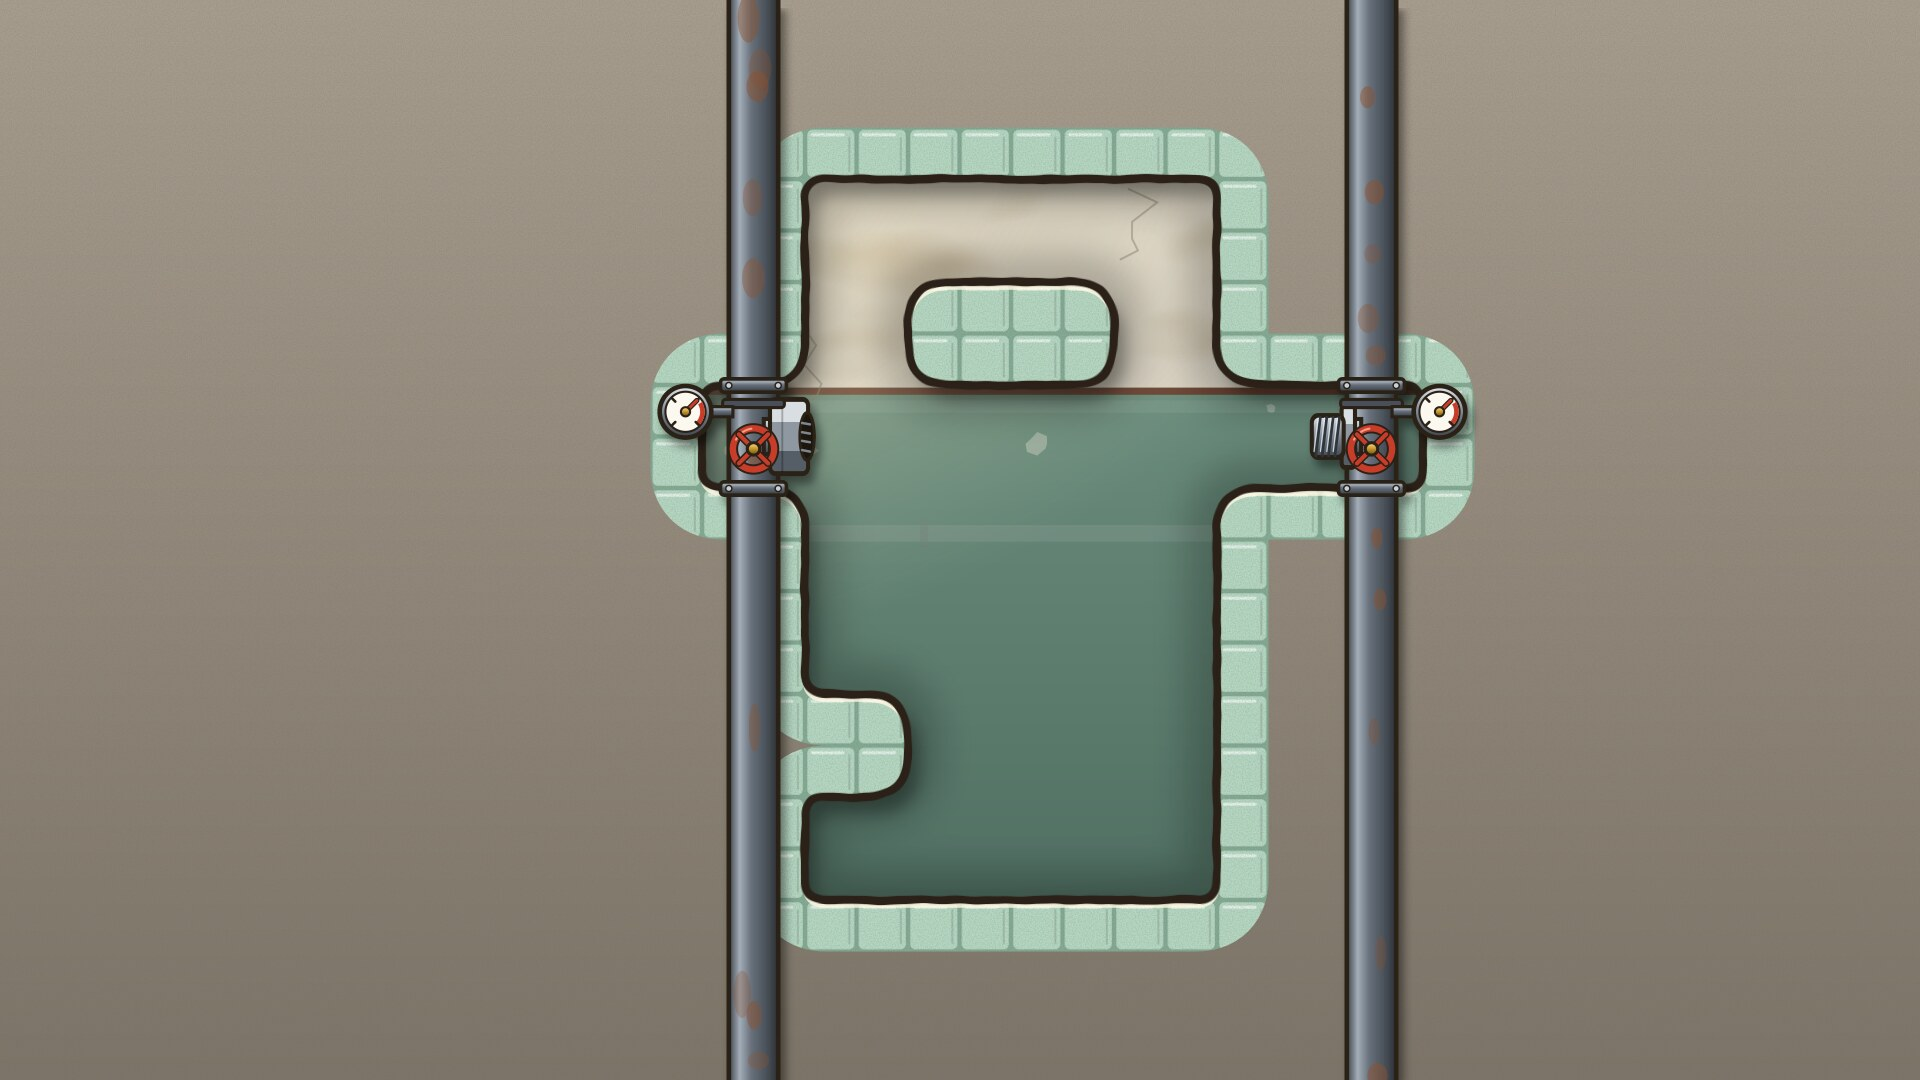
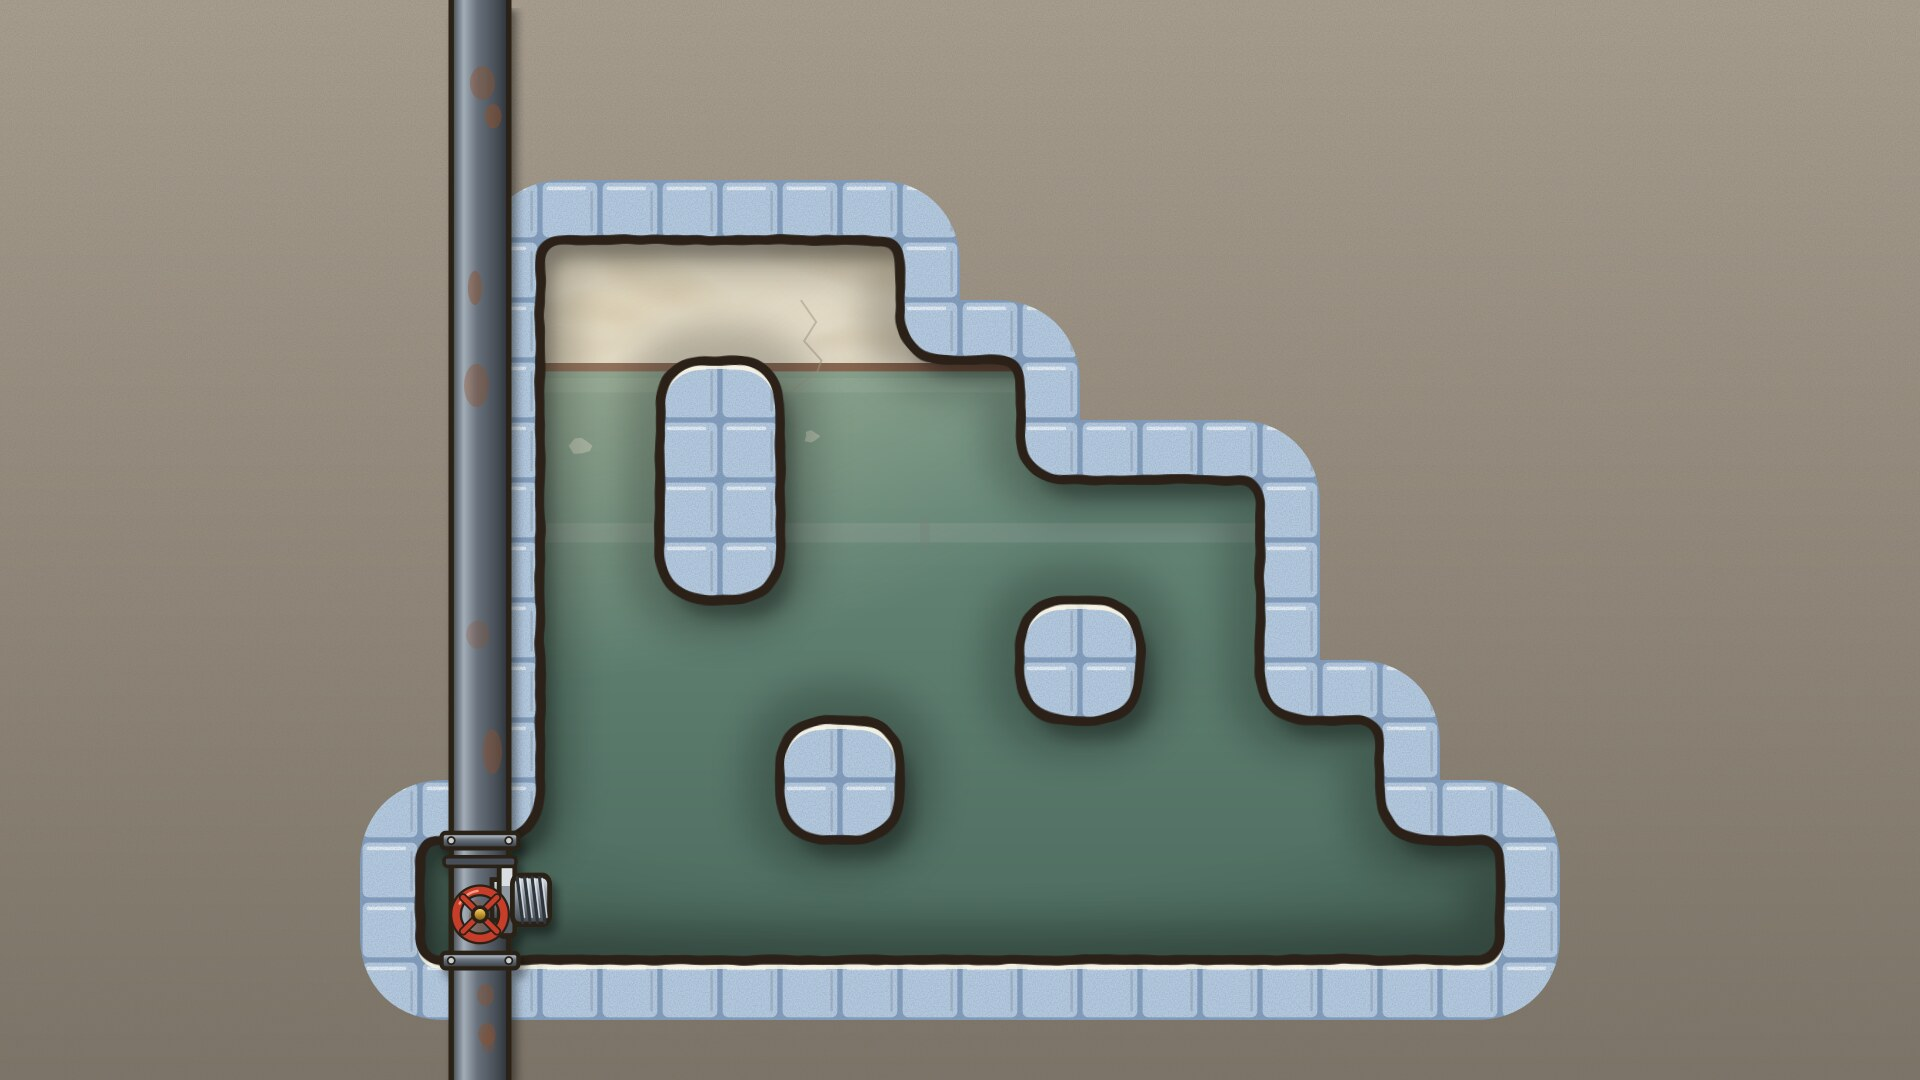
Установлена кв. 7 «Зазор»; напор выведен из игры в резерв; документы обновлены
Claude-Session: https://claude.ai/code/session_01KTF9zcDbthXae1taWntBSd

diff --git a/docs/DESIGN.md b/docs/DESIGN.md
@@ -201,7 +201,7 @@ flowchart TD
 | 4 | «Фаянс толкают только ноги» |
 | 5 | «Деталь падает и свинчивается» (и «намертво» — прикрученная к сети становится сталью) |
 | 6 | Нет (02.10: «Звено» — ядро на известных правилах) |
-| 7 | «Струя толкает и держит» (временно, пока напорные квартиры 7–9 не заменены); «Брандспойт» — в паспорте |
+| 7 | Нет |
 | 8 | «Поднимает, но не носит» (перенесён из кв. 10, 02.10) |
 | 9 | Нет |
 | 10 | Нет (вкладыш перенесён в кв. 8) |
@@ -249,7 +249,7 @@ flowchart TD
 | 4 | «Мыло» | Фаянс | Нижнее мыло — не ступенька, а подставка: его выбивают ногами в слив из-под верхнего | 11×8 · 2–5 · 0 |
 | 5 | «Резьба» | Подвижные детали | Собранная заранее труба не пролезает: детали надо ронять в строгом порядке, чтобы они свинтились на лету на своём месте | 9×8 · 2–4 · 0 |
 | 6 | «Звено» | Лапидус — кусок стояка | Между окаменевшими деталями ровно его минимальная длина: голова к ниппелю, ноги втягиваются на муфту (M1/M5/M6). Муфта: табуретка под лазом → звено-крюк на стояке; вкрутить её сразу естественно и необратимо, видно через 8–10 ходов. Сменила напорную «Дали напор» (резерв, build/l7f); раунд build/l6j | 10×9 · 4–5 · 0 |
-| 7 | «Брандспойт» | Лапидус как шланг | Ввод брандспойта (решение Lao 01.10, вариант А): струя бьёт прочь от крана, на котором висишь, — пробку в один кран гонишь с другого, а до него тянешься, повиснув на ванне. Кандидат на полные ворота — ядро «переходник на кране» (окаменение не той стороной, M1+M5) в 16×10 при длине 2–6 | 13×9 · 2–5 · 2 (поиск: 16×10 · 2–6) |
+| 7 | «Зазор» | Досягаемость от сдвинутого якоря | Каждая деталь сама подходит к стояку или мойке (мойка входом вниз), но Лапидусу не хватает клетки: якорь сдвигают, свинтив обе детали в надставку, — угольник оставляют на клетку от стояка, переходник падает в зазор (M3, M5). Две скрытые ошибки: угольник под мойку, угольник вплотную к стояку. Скептик: чистый, 4–5/10. Сменил «Брандспойт» (резерв, build/l8a); раунд build/l7j | 11×9 · 2–5 · 0 |
 | 8 | «Гусеница» | Не носит, но возит | Муфта едет на спине: один конец подталкивает, другой подстилается впереди (M7, M3); под стояком её провозят низом — поверху она прикипает на лету и не хватает звена (M1/M6). Сменила напорную «Гребёнку» (резерв, build/l9a); раунд build/l8j | 10×8 · 2–5 · 0 |
 | 9 | «Домкрат» | Лапидус поднимает деталь | Тройнику место под колонкой, а не на стояке: Лапидус ловит его на себя и выжимает вверх, затем сам становится стояком вверх ногами (M7, M1, M5, M6); ловушка — заглушить тройник на полу, «бутерброд» в шахту не пролезет. Класс «вводный+»: полные ворота — структурный предел без напора (раунд f). Сменила «Опрессовку» (резерв, build/l10a); раунд build/l9j | 9×9 · 3–6 · 0 |
 | 10 | «Намертво» | Свинченная пара — одно тело; карточка «Поднимает, но не носит» | Ниппель — не в колонку, а за спину муфте: через двойной слив они пройдут только парой, муфтой вперёд (порядок деталей на полу — навсегда) | 11×5 · 3–5 · 0 |

diff --git a/reports/metrics.md b/reports/metrics.md
@@ -12,7 +12,7 @@
 | 4 | «Мыло» | 11×8 | 2–5 | 0 | 4034 (≤ 100000) | 30 (15–40) | 82.3% (≥ 35%) | 6 (≥ 2) | 1 | 0 % | 6 (3) | без фаянса: нерешаем ✓; подставку не выбить: нерешаем ✓; мыло на мыло не ляжет: нерешаем ✓; мост запрещён: нерешаем ✓; подъёмник запрещён: нерешаем ✓; мыло не ляжет на голову: нерешаем ✓ | ✅ |
 | 5 | «Резьба» | 9×9 | 2–4 | 0 | 9539 (≤ 300000) | 23 (15–40) | 79.6% (≥ 40%) | 1 (≥ 2) | 1 | 0.1 % | 66 (7) | без муфты: нерешаем ✓; без ниппеля: нерешаем ✓; без угольника: нерешаем ✓; по одной нельзя: нерешаем ✓ | ⚠ мало ложных веток; широкий коридор решений (7) |
 | 6 | «Звено» | 10×9 | 4–5 | 0 | 3717 (≤ 100000) | 29 (15–40) | 61.7% (≥ 40%) | 2 (≥ 2) | 1 | 0 % | 2 (2) | без муфты: нерешаем ✓; без ниппеля: нерешаем ✓; на муфту не встают: нерешаем ✓; муфта не стоит под лазом: нерешаем ✓; муфта с самого начала на стояке: нерешаем ✓; без ниши в шахту: нерешаем ✓ | ✅ |
-| 7 | «Брандспойт» | 13×9 | 2–5 | 2 | 764 (≤ 50000) | 19 (15–40) | 0% (≥ 55%) | 0 (≥ 3) | 1 | 0 % | 1 (1) | без пробки: нерешаем ✓; брандспойт не бьёт: нерешаем ✓; ванна не крюк: нерешаем ✓ | ⚠ мало тупиков; мало ложных веток |
+| 7 | «Зазор» | 11×9 | 2–5 | 0 | 14036 (≤ 100000) | 28 (15–40) | 57.9% (≥ 40%) | 1 (≥ 2) | 1 | 0 % | 18 (4) | без переходника: нерешаем ✓; без угольника: нерешаем ✓; угольник с самого начала в стояке: нерешаем ✓; угольник с самого начала под мойкой: нерешаем ✓ | ⚠ мало ложных веток; широкий коридор решений (4) |
 | 8 | «Гусеница» | 10×8 | 2–5 | 0 | 8134 (≤ 100000) | 29 (15–40) | 83.2% (≥ 25%) | 13 (≥ 2) | 1 | 0 % | 120 (8) | без мыла: нерешаем ✓; без муфты: нерешаем ✓; везти на спине нельзя: нерешаем ✓; мимо стояка только верхом: нерешаем ✓ | ⚠ широкий коридор решений (8) |
 | 9 | «Домкрат» | 9×9 | 3–6 | 0 | 26288 (≤ 300000) | 32 (15–45) | 80.9% (≥ 40%) | 12 (≥ 2) | 1 | 0 % | 4 (2) | без заглушки: нерешаем ✓; без тройника: нерешаем ✓; тройник не поднимают: нерешаем ✓; заглушку не поднимают: нерешаем ✓; тройник сразу на стояке: нерешаем ✓; заглушка сразу на тройнике: нерешаем ✓; без лаза: нерешаем ✓ | ✅ |
 | 10 | «Намертво» | 11×5 | 3–5 | 0 | 30969 (≤ 1000000) | 23 (15–40) | 86.2% (≥ 50%) | 10 (≥ 3) | 1 | 0 % | 2 (2) | без ниппеля: нерешаем ✓; без муфты: нерешаем ✓; пара не держит муфту над сливом: нерешаем ✓; ниппель не переходит муфту поверху: нерешаем ✓ | ✅ |

diff --git a/HANDOFF.md b/HANDOFF.md
@@ -116,6 +116,17 @@
   build/l10a/installed_o44_level9.lua (+ «Брандспойт» после замены кв. 7). Сцены 6–9 устарели — перерисовать в конце.
 - REPORT.md авторов l2k, l7j, l9j среда агентам писать не дала — тексты в истории сессии.
 
+## 02.10 (ночь, итог): все десять квартир сухие (раунды «ворота Jelly»)
+- Кв. 7 «Зазор» (build/l7j/e6): 28 ходов, скрытых 40 %, обезьяна 0 %, ширина 4 (косметика), дверь во второй половине.
+  Скептик — «доработать»: чистый, но 4–5/10 и близок к кв. 2/5. Установлен как лучший из найденного («Надставка» c33 —
+  повтор кв. 6). Напора в игре больше нет: «Брандспойт» — build/l8a/installed_b6_level7.lua; вкладыши напора и брандспойта
+  убраны из паспорта; карточки card06/card07/card08 и тема музыки pressure — в резерве.
+- Честный вывод раунда (5 авторов, 6 скептиков, ~150 кандидатов): в правилах §3 без напора глубина упирается в одно —
+  одна глубокая скрытая ошибка на уровень; полные ворота даёт только кв. 10. Скептики оценивают кв. 6–9 в 5–7/10.
+  Дальше два пути: (а) порядок квартир по ощущению скептиков (кв. 7 легче кв. 6); (б) новый механизм правил (§15),
+  который даёт вторую скрытую ошибку во второй половине — решение Lao.
+- Сцены 6–9 (assets/gfx/scene6–9.png) устарели — перерисовать под новые квартиры.
+
 ## Как продолжить
 1. `mkdir -p /home/claude/lapidus && cd /home/claude && unzip -q /mnt/user-data/uploads/lapidus_checkpoint_phase6a.zip`
    (в архиве папка lapidus/).

diff --git a/WALKTHROUGH_SPOILERS.md b/WALKTHROUGH_SPOILERS.md
@@ -35,10 +35,11 @@
 11. Н↑  12. Н↑  13. Н↑  14. Н↑  15. Н→  16. Н→  17. Г↓  18. Н←  19. Г←  20. Г↓  
 21. Г→  22. Г→  23. Г→  24. Г↑  25. Г→  26. Г↑  27. Г↑  28. Г↑  29. Н→  
 
-## Кв. 7 · «Брандспойт» — 19 ходов
+## Кв. 7 · «Зазор» — 28 ходов
 
-1. Г↑  2. Г↑  3. Г↑  4. Г↑  5. Г←  6. Г→  7. Г→  8. Н↑  9. Н↑  10. Н↑  
-11. Н↑  12. Н↑  13. Н←  14. Н→  15. Н↓  16. Н↓  17. Н↓  18. Н↓  19. Н↓  
+1. Г←  2. Г←  3. Г↑  4. Г←  5. Г↑  6. Г↑  7. Г→  8. Н→  9. Н→  10. Н↓  
+11. Н←  12. Н←  13. Н←  14. Н↑  15. Н↑  16. Н←  17. Н↑  18. Г←  19. Н↑  20. Н↑  
+21. Н↑  22. Н←  23. Г←  24. Г↓  25. Н↓  26. Н↓  27. Н→  28. Н↑  
 
 ## Кв. 8 · «Гусеница» — 29 ходов
 
